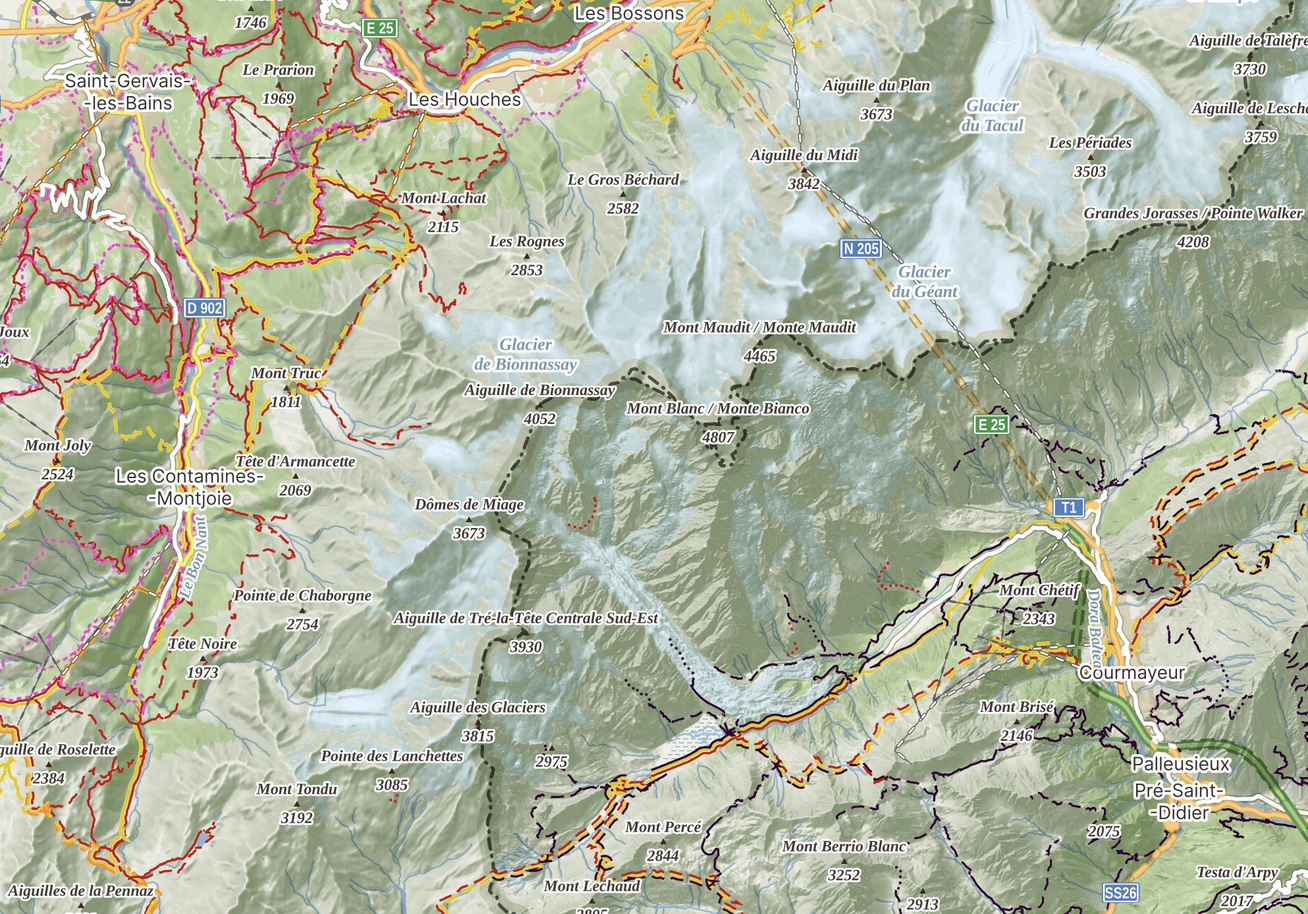
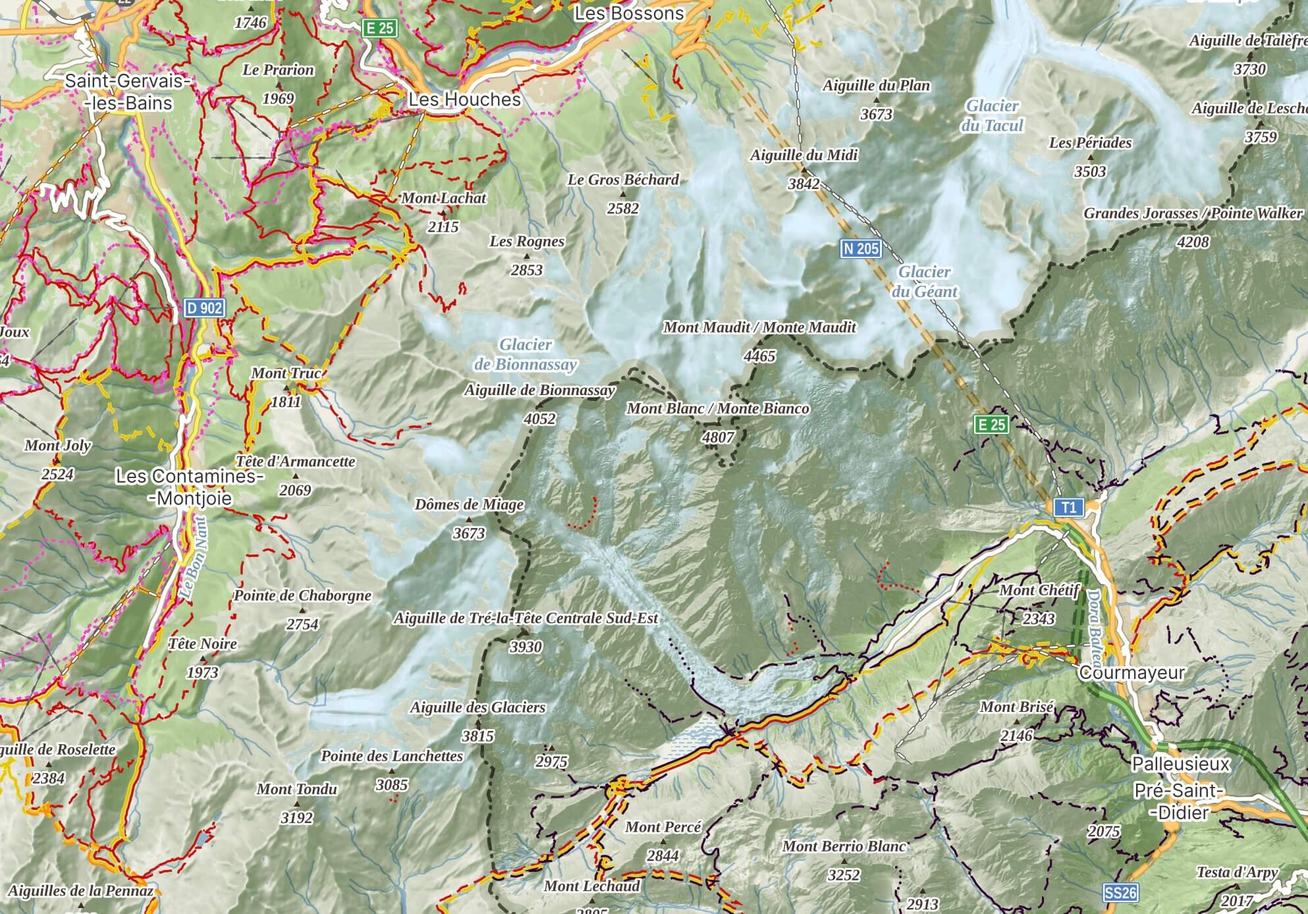
Fix more bugs from CR

diff --git a/src/components/NewTripForm.tsx b/src/components/NewTripForm.tsx
@@ -2,7 +2,6 @@ import React from 'react';
 import { useState, type FormEvent } from 'react';
 import { useNavigate } from 'react-router-dom';
 
-import { supabase } from '../api/supabaseClient';
 import { InputField } from './form/InputField';
 import { DateInput } from './form/DateInput';
 import { MediaPicker } from './form/MediaPicker';
@@ -12,6 +11,7 @@ import { SelectField } from './form/SelectField';
 import { TextAreaField } from './form/TextAreaField';
 import { Button } from './Button';
 import mapPreview from '../assets/images/mapycz.jpeg';
+import { createTrip } from '../api/createTrip';
 import style from './NewTripForm.module.scss';
 
 export const NewTripForm: React.FC = () => {
@@ -41,74 +41,24 @@ export const NewTripForm: React.FC = () => {
     event.preventDefault();
     setError(null);
 
-    const { data: trip, error: tripError } = await supabase
-      .from('trips')
-      .insert([
-        {
-          name,
-          location: `${region}, ${country}`,
-          description,
-          map_id: mapId || null,
-        },
-      ])
-      .select()
-      .single();
+    try {
+      await createTrip({
+        name,
+        region,
+        country,
+        description,
+        mapId,
+        distance,
+        elevation,
+        summits,
+        images,
+      });
 
-    if (tripError) {
-      setError('Nepodařilo se uložit trasu');
+      navigate('/trips');
+    } catch (e) {
+      setError(e instanceof Error ? e.message : 'Nepodařilo se uložit trasu');
       window.scrollTo({ top: 0, behavior: 'smooth' });
-
-      return;
     }
-
-    const { error: statsError } = await supabase
-      .from('trip_statistics')
-      .insert([
-        {
-          trip_id: trip.id,
-          distance: Number(distance) || 0,
-          elevation: Number(elevation) || 0,
-          summits: Number(summits) || 0,
-          highest_point: 0,
-        },
-      ]);
-
-    if (statsError) {
-      setError('Nepodařilo se uložit statistiky');
-      window.scrollTo({ top: 0, behavior: 'smooth' });
-
-      return;
-    }
-
-    let isFirst = true;
-
-    for (const file of images) {
-      const filePath = `${trip.id}/${Date.now()}-${file.name}`;
-
-      const { error: uploadError } = await supabase.storage
-        .from('images')
-        .upload(filePath, file);
-
-      if (uploadError) {
-        continue;
-      }
-
-      const { publicUrl } = supabase.storage
-        .from('images')
-        .getPublicUrl(filePath).data;
-
-      await supabase.from('trip_images').insert([
-        {
-          trip_id: trip.id,
-          image_url: publicUrl,
-          is_cover: isFirst,
-        },
-      ]);
-
-      isFirst = false;
-    }
-
-    navigate('/trips');
   };
 
   return (

diff --git a/src/api/createTrip.ts b/src/api/createTrip.ts
@@ -1,0 +1,86 @@
+import { supabase } from './supabaseClient';
+
+type CreateTripPayload = {
+  name: string;
+  region: string;
+  country: string;
+  description: string;
+  mapId?: string;
+  distance?: string;
+  elevation?: string;
+  summits?: string;
+  images: File[];
+};
+
+export async function createTrip({
+  name,
+  region,
+  country,
+  description,
+  mapId,
+  distance,
+  elevation,
+  summits,
+  images,
+}: CreateTripPayload) {
+  const { data: trip, error: tripError } = await supabase
+    .from('trips')
+    .insert([
+      {
+        name,
+        location: `${region}, ${country}`,
+        description,
+        map_id: mapId || null,
+      },
+    ])
+    .select()
+    .single();
+
+  if (tripError) {
+    throw new Error('Nepodařilo se uložit trasu');
+  }
+
+  const { error: statsError } = await supabase.from('trip_statistics').insert([
+    {
+      trip_id: trip.id,
+      distance: Number(distance) || 0,
+      elevation: Number(elevation) || 0,
+      summits: Number(summits) || 0,
+      highest_point: 0,
+    },
+  ]);
+
+  if (statsError) {
+    throw new Error('Nepodařilo se uložit statistiky');
+  }
+
+  let isFirst = true;
+
+  for (const file of images) {
+    const filePath = `${trip.id}/${Date.now()}-${file.name}`;
+
+    const { error: uploadError } = await supabase.storage
+      .from('images')
+      .upload(filePath, file);
+
+    if (uploadError) {
+      continue;
+    }
+
+    const { publicUrl } = supabase.storage
+      .from('images')
+      .getPublicUrl(filePath).data;
+
+    await supabase.from('trip_images').insert([
+      {
+        trip_id: trip.id,
+        image_url: publicUrl,
+        is_cover: isFirst,
+      },
+    ]);
+
+    isFirst = false;
+  }
+
+  return trip;
+}

diff --git a/src/components/form/DateInput.tsx b/src/components/form/DateInput.tsx
@@ -4,16 +4,15 @@ import { FormField } from './FormField';
 import { Input } from './FormInputs';
 import { useFormField } from '../../hooks/useFormField';
 
-type DateInputProps = {
-  label: string;
+type DateInputControlProps = {
   value?: string;
   onChange?: (value: string) => void;
 };
 
-const DateInputInner: React.FC<{
-  value?: string;
-  onChange?: (value: string) => void;
-}> = ({ value, onChange }) => {
+const DateInputControl: React.FC<DateInputControlProps> = ({
+  value,
+  onChange,
+}) => {
   const formField = useFormField();
 
   return (
@@ -26,12 +25,18 @@ const DateInputInner: React.FC<{
   );
 };
 
+type DateInputProps = {
+  label: string;
+  value?: string;
+  onChange?: (value: string) => void;
+};
+
 export const DateInput: React.FC<DateInputProps> = ({
   label,
   value,
   onChange,
 }) => (
   <FormField label={label}>
-    <DateInputInner value={value} onChange={onChange} />
+    <DateInputControl value={value} onChange={onChange} />
   </FormField>
 );

diff --git a/src/components/form/FormField.tsx b/src/components/form/FormField.tsx
@@ -3,12 +3,12 @@ import React, { useMemo, useId } from 'react';
 import { FormFieldContext } from './FormFieldContext';
 import style from './FormField.module.scss';
 
-type Props = {
+type FormFieldProps = {
   label: string;
   children: React.ReactNode;
 };
 
-export const FormField: React.FC<Props> = ({ label, children }) => {
+export const FormField: React.FC<FormFieldProps> = ({ label, children }) => {
   const inputId = useId();
 
   const value = useMemo(
